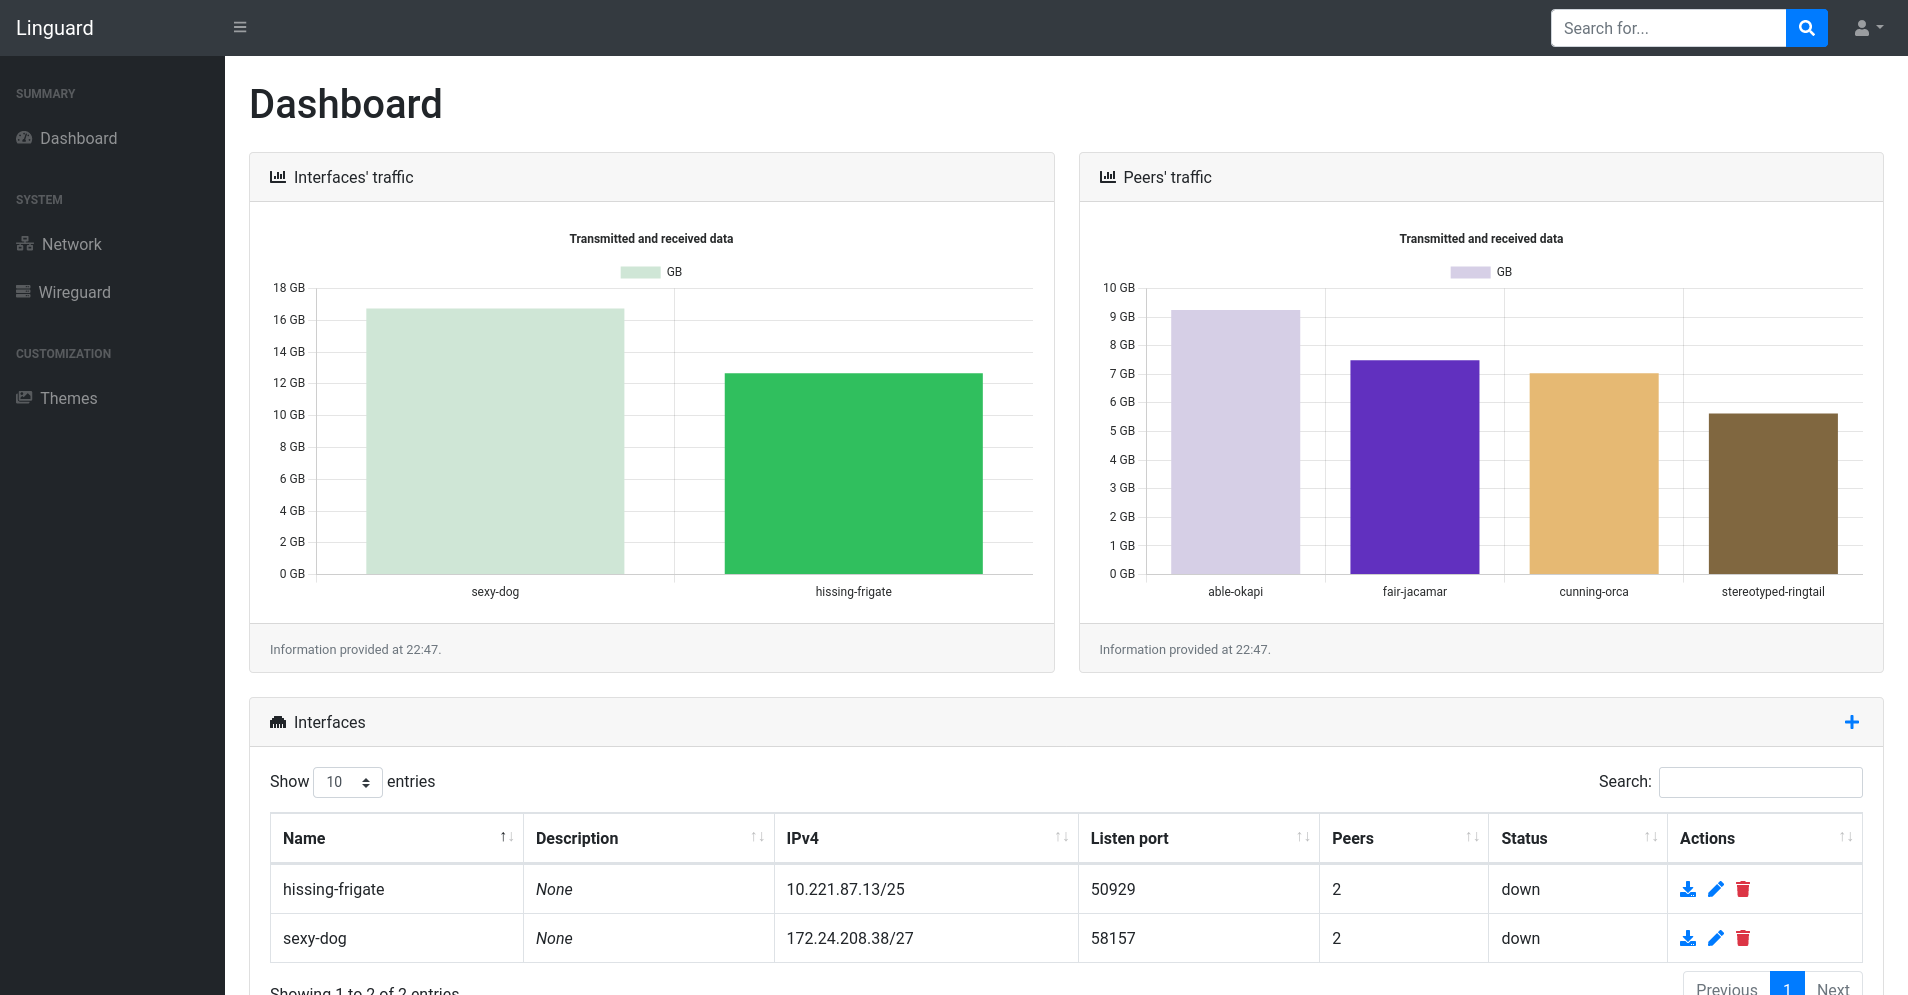
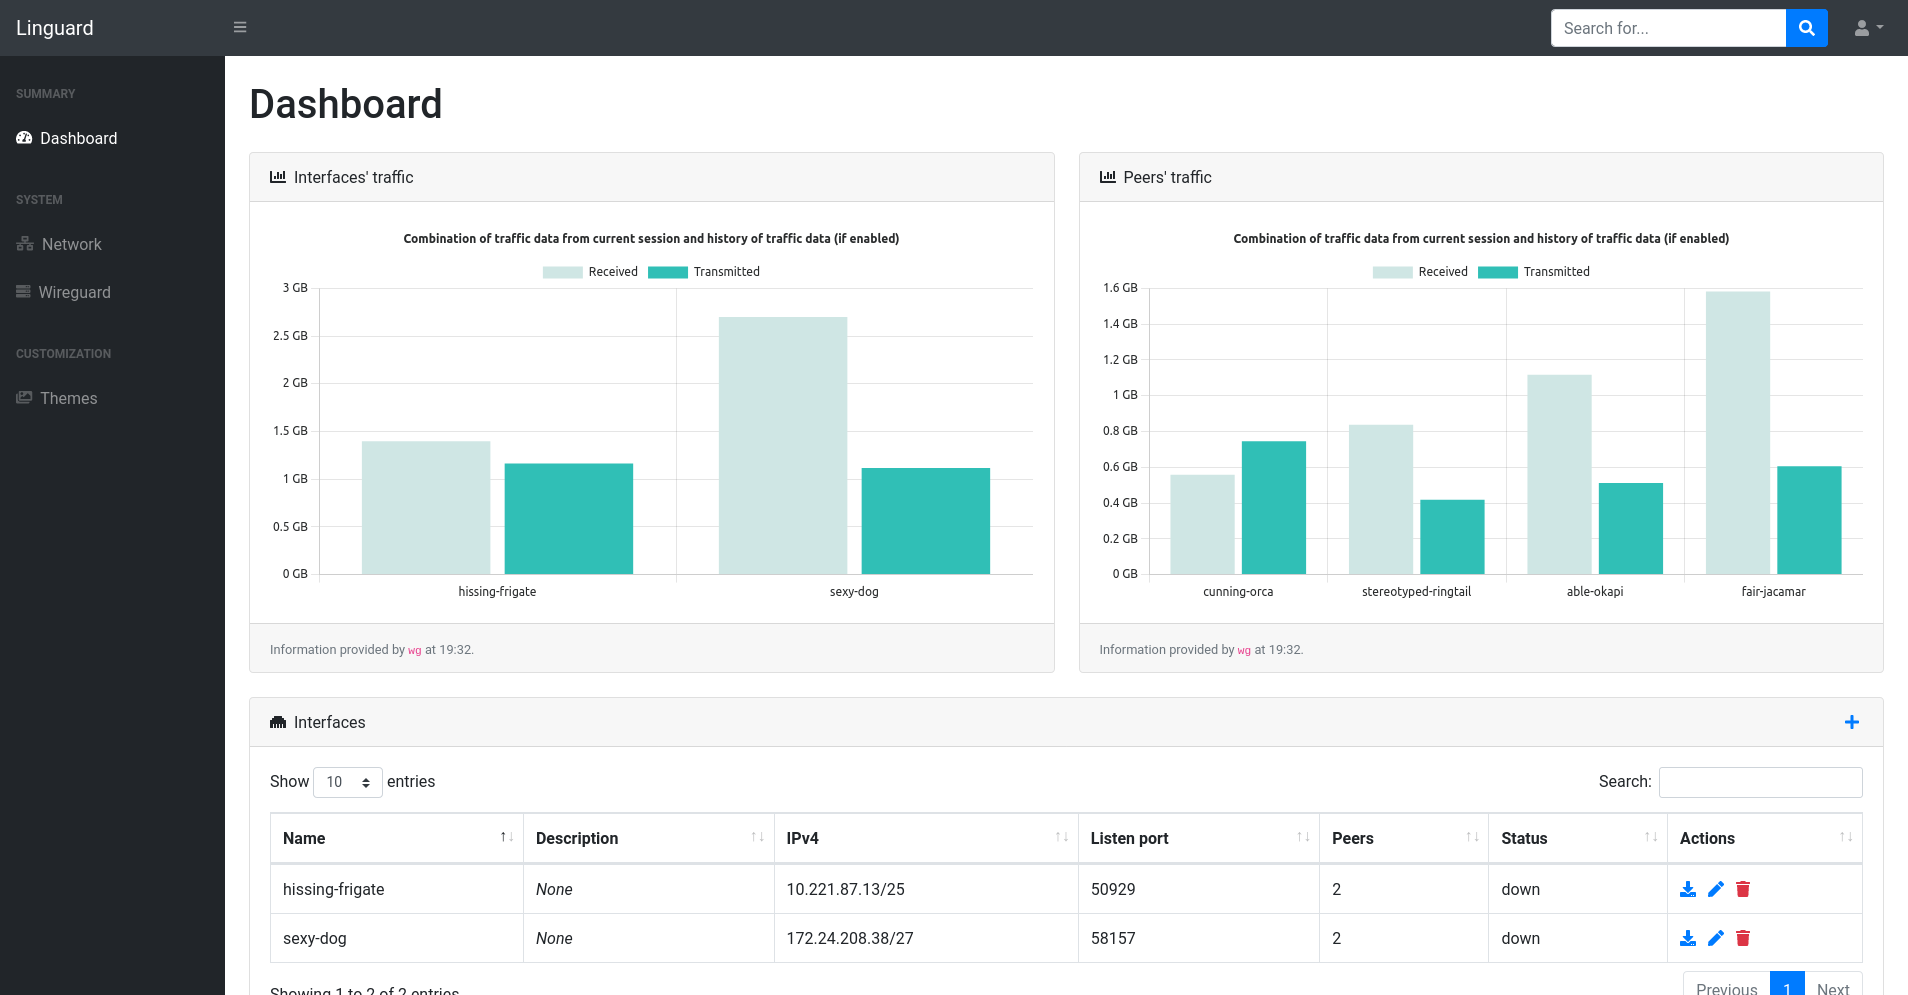
#15 Fixed error obtaining session traffic and updated readme with new screenshots
- TODO: update wiki

diff --git a/web/templates/web/wireguard-iface.html b/web/templates/web/wireguard-iface.html
@@ -275,7 +275,7 @@
                                             {% else %}
                                                 <td>No</td>
                                             {% endif %}
-                                            {% if peer.name in session_traffic %}
+                                            {% if peer.name in session_traffic and session_traffic[peer.name].last_handshake %}
                                                 <td>{{ session_traffic[peer.name].last_handshake.strftime("%H:%M:%S, %d/%m/%Y") }}</td>
                                             {% else %}
                                                 <td>{{ EMPTY_FIELD | safe }}</td>

diff --git a/core/drivers/traffic_storage_driver.py b/core/drivers/traffic_storage_driver.py
@@ -43,9 +43,9 @@ class TrafficStorageDriver(YamlAble):
             iface_rx = 0
             iface_tx = 0
             for peer in iface.peers.values():
-                if peer.public_key not in data[iface]:
+                if peer.public_key not in data[iface.name]["peers"]:
                     continue
-                peer_data = data[iface][peer.public_key]
+                peer_data = data[iface.name]["peers"][peer.public_key]
                 peer_rx = 0
                 peer_tx = 0
                 if "transferRx" in peer_data:

diff --git a/README.md b/README.md
@@ -10,25 +10,12 @@ Linguard aims to provide an easy way to manage your WireGuard server, and it's w
 Check out [the wiki](https://github.com/joseantmazonsb/linguard/wiki) for additional info!
 
 ## Table of contents
-- [Screenshots](#screenshots)
 - [Installation](#installation)
+- [Screenshots](#screenshots)
     - [Git](#git)
     - [Debian package](#debian-package)
     - [Docker](#docker)
 - [Contributing](#contributing)
-
-## Screenshots
-
-![Dashboard (1)](images/dashboard-1.png)
-![Dashboard (2)](images/dashboard-2.png)
-![Network interfaces](images/network-section-1.png)
-![Routing information](images/network-section-2.png)
-![Wireguard interfaces section (1)](images/wireguard-section-1.png)
-![Wireguard interfaces section (2)](images/wireguard-section-2.png)
-![Edit wireguard interface configuration (1)](images/wireguard-edit-1.png)
-![Edit wireguard interface configuration (2)](images/wireguard-edit-2.png)
-![Edit wireguard peer configuration](images/peer-edit-1.png)
-![Settings](images/settings.png)
 
 ## Installation
 
@@ -53,6 +40,22 @@ Check out [the wiki](https://github.com/joseantmazonsb/linguard/wiki) for additi
 ### Debian package
 
 ### Docker
+
+## Screenshots
+
+![Dashboard (1)](images/dashboard-1.png)
+![Dashboard (2)](images/dashboard-2.png)
+![Network interfaces](images/network-section-1.png)
+![Routing information](images/network-section-2.png)
+![Wireguard interfaces section (1)](images/wireguard-section-1.png)
+![Wireguard interfaces section (2)](images/wireguard-section-2.png)
+![Edit wireguard interface configuration (1)](images/wireguard-edit-1.png)
+![Edit wireguard interface configuration (2)](images/wireguard-edit-2.png)
+![Edit wireguard interface configuration (3)](images/wireguard-edit-3.png)
+![Edit wireguard peer configuration (1)](images/peer-edit-1.png)
+![Edit wireguard peer configuration (2)](images/peer-edit-2.png)
+![Settings (1)](images/settings-1.png)
+![Settings (2)](images/settings-2.png)
 
 ## Contributing
 
